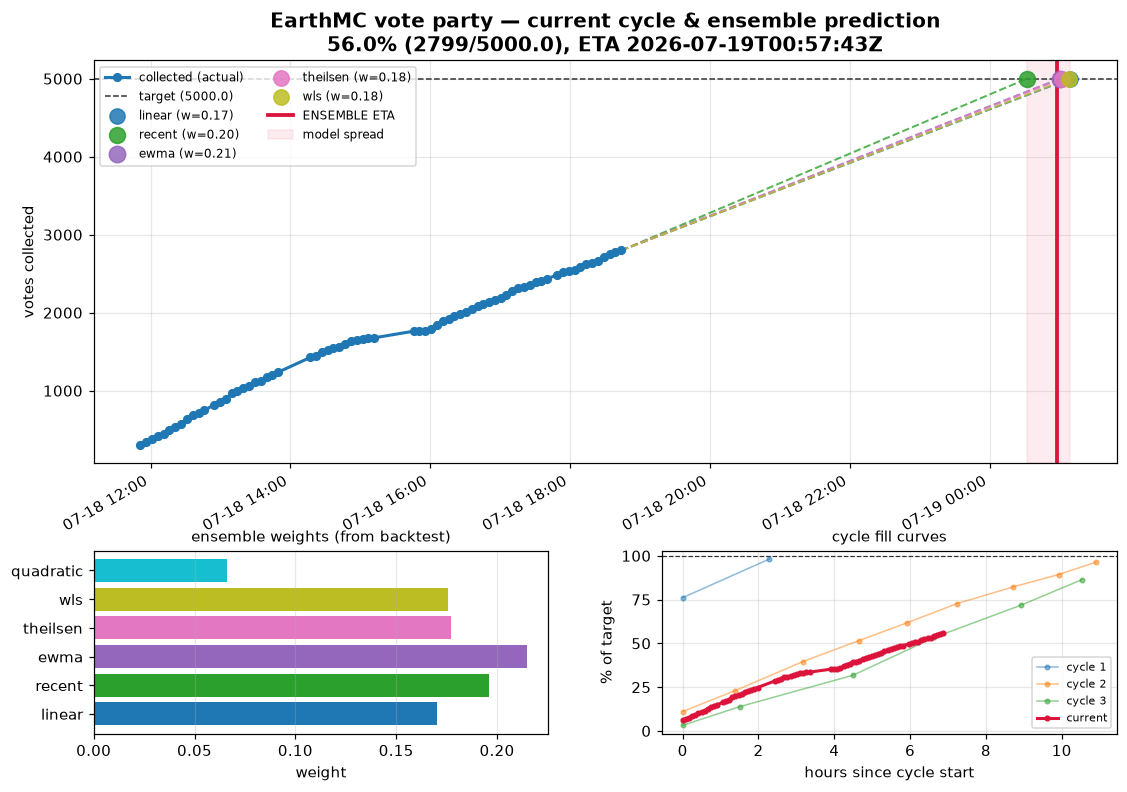
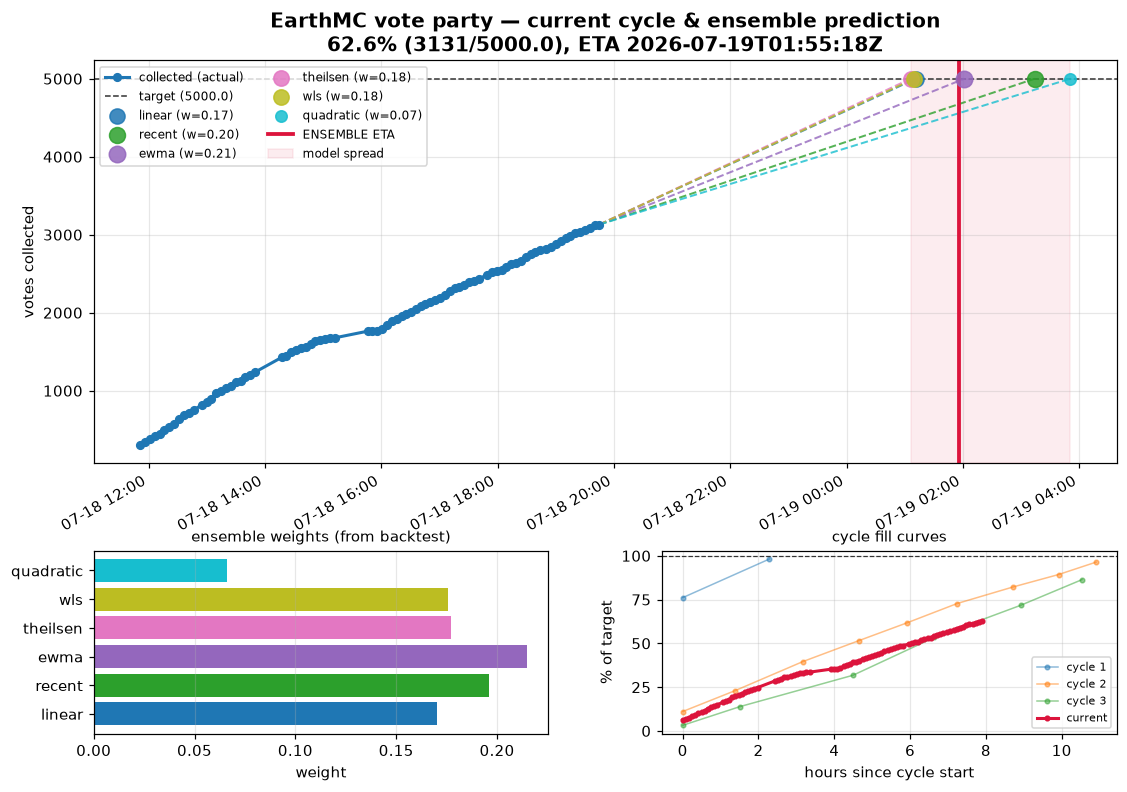
chore: vote party data window ending 2026-07-18T19:45:01Z

diff --git a/data/PREDICTION.md b/data/PREDICTION.md
@@ -1,24 +1,24 @@
 # Vote Party Prediction
 
-_Generated 2026-07-18T18:43:52Z — recomputed every data update._
+_Generated 2026-07-18T19:44:51Z — recomputed every data update._
 
-**Progress:** 2799 / 5000.0 (56.0%) — 2201 remaining
-**Players online:** 579  |  **Cycle started:** 2026-07-18T11:51:06Z  |  **Data points this cycle:** 72
+**Progress:** 3131 / 5000.0 (62.6%) — 1869 remaining
+**Players online:** 596  |  **Cycle started:** 2026-07-18T11:51:06Z  |  **Data points this cycle:** 84
 
 ## 🎯 Ensemble prediction
 
-**Vote party fires ≈ `2026-07-19T00:57:43Z`**
-Model spread: `2026-07-19T00:31:53Z` → `2026-07-19T01:09:10Z` (±14 min)
+**Vote party fires ≈ `2026-07-19T01:55:18Z`**
+Model spread: `2026-07-19T01:05:52Z` → `2026-07-19T03:50:30Z` (±57 min)
 
 ## Individual models
 
 | Model | Predicted ETA | Weight | Backtest RMSE |
 |-------|---------------|--------|---------------|
-| ewma | 2026-07-19T01:00:07Z | 0.215 | 0.06557 |
-| recent | 2026-07-19T00:31:53Z | 0.196 | 0.06861 |
-| theilsen | 2026-07-19T01:02:24Z | 0.177 | 0.07219 |
-| wls | 2026-07-19T01:07:50Z | 0.176 | 0.07251 |
-| linear | 2026-07-19T01:09:10Z | 0.170 | 0.0736 |
-| quadratic | n/a | 0.066 | 0.11829 |
+| ewma | 2026-07-19T02:01:22Z | 0.215 | 0.06557 |
+| recent | 2026-07-19T03:13:49Z | 0.196 | 0.06861 |
+| theilsen | 2026-07-19T01:05:52Z | 0.177 | 0.07219 |
+| wls | 2026-07-19T01:09:34Z | 0.176 | 0.07251 |
+| linear | 2026-07-19T01:11:13Z | 0.170 | 0.0736 |
+| quadratic | 2026-07-19T03:50:30Z | 0.066 | 0.11829 |
 
 Weights come from a rolling-origin backtest on completed cycles: each model's inverse mean-squared extrapolation error, normalised. Lower RMSE → higher weight. See `prediction.png` for the graph.
